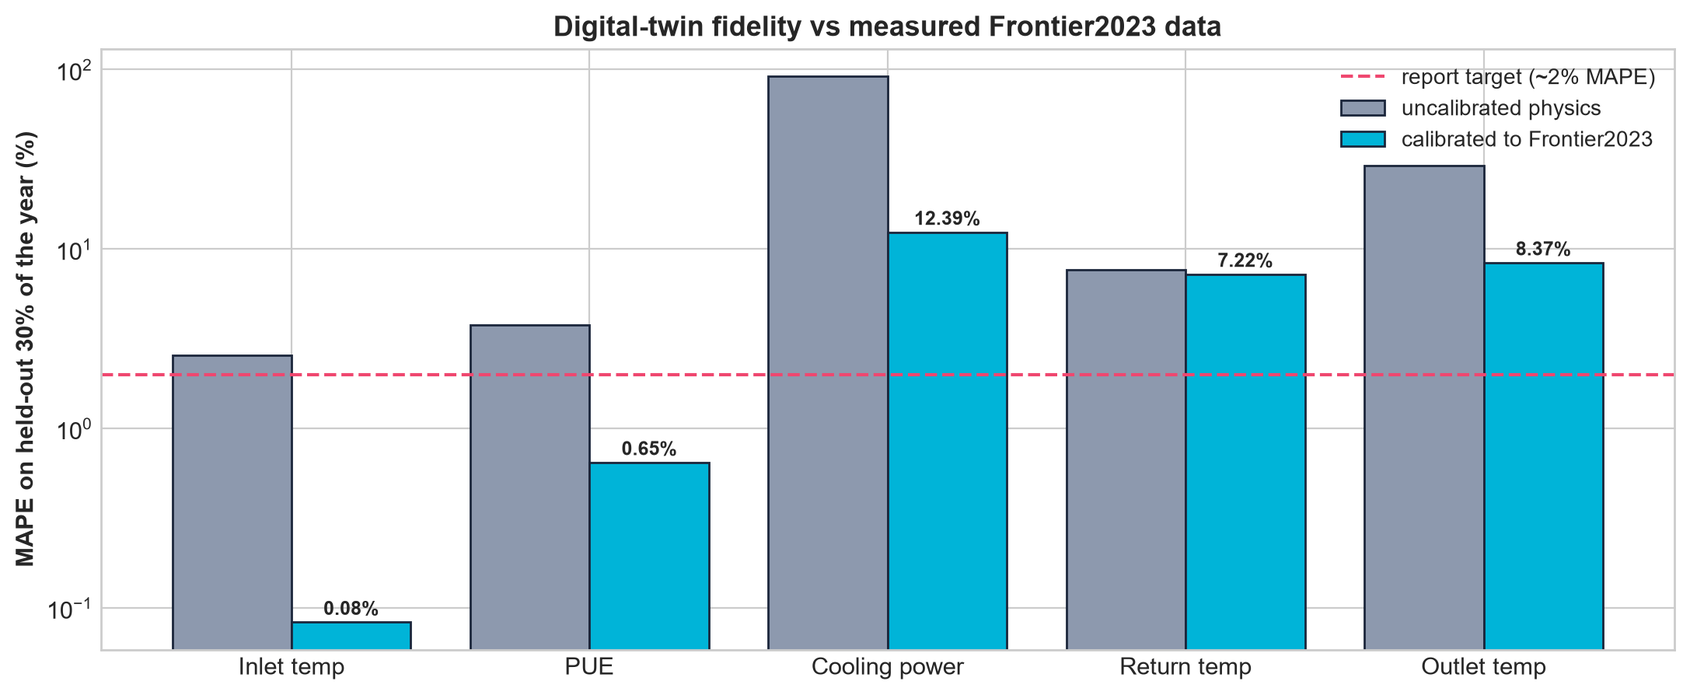
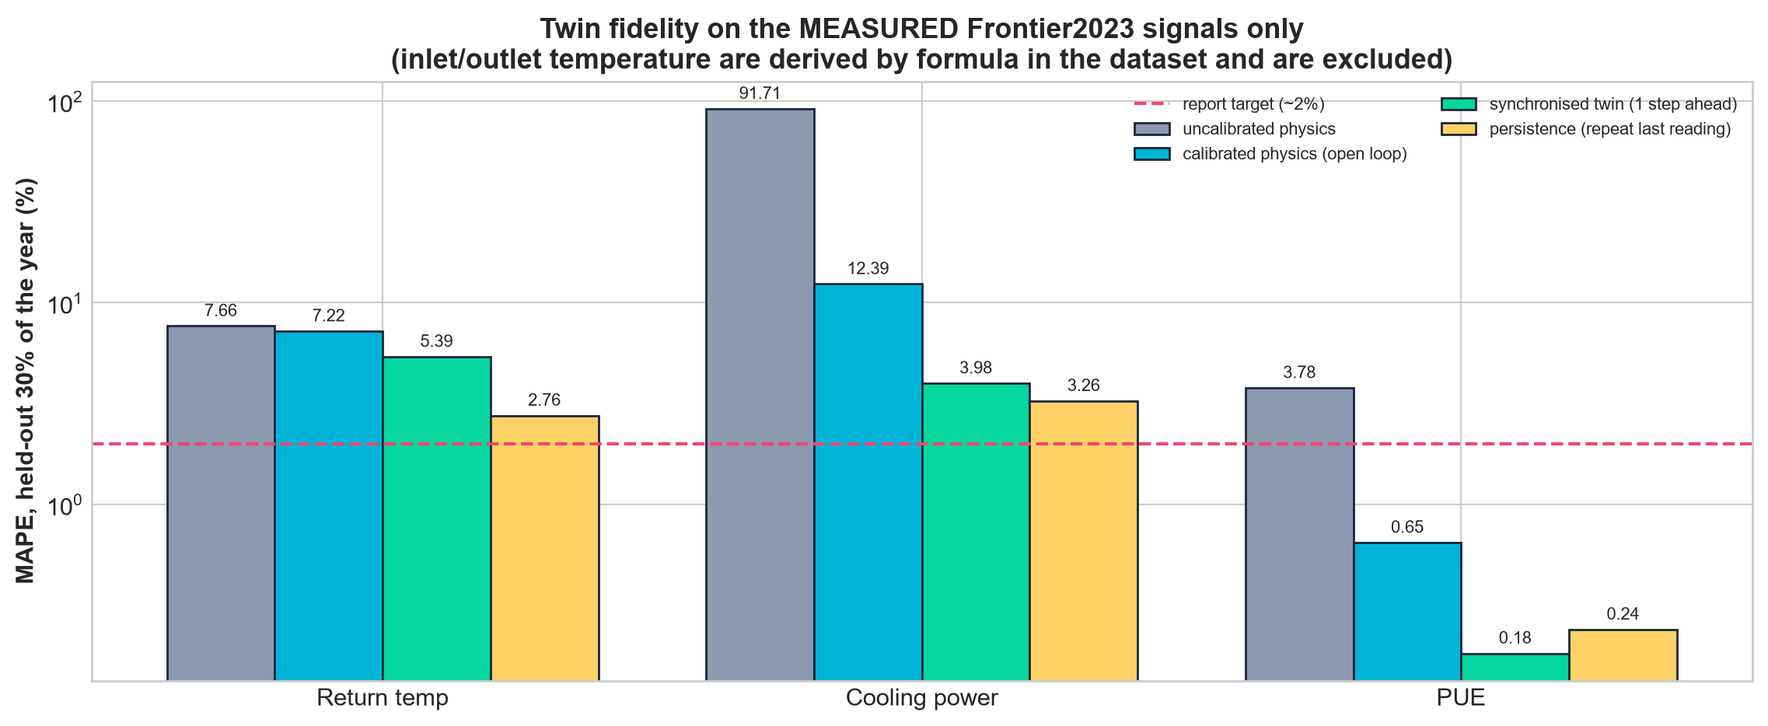
fix(claims): fidelity is only evidenced on measured signals; add synchronised twin; document data provenance
Discovered while checking supply-temperature sensitivity: in dataset/download_dataset.py, ambient
temperature, rack inlet (= supply + 2.5 C), rack outlet (= inlet + 0.8 x IT MW) and grid carbon are
DERIVED by formula, not measured. The earlier 'inlet temperature 0.08% MAPE vs measured data' was
therefore circular.

- calibrate_twin.py reports only the three measured quantities (PUE, cooling power, return temperature)
  as evidence and flags inlet/outlet as derived; result: PUE 0.65% (meets ~2%), cooling power 12.4% and
  return temperature 7.2% (do not)
- new synchronised twin (physics + last measurements, ridge): PUE 0.18%; it does not beat persistence for
  return temperature or cooling power (2.8% / 3.3%), so ~2% is not reachable for those two from the data
- RESULTS.md: provenance table, corrected section 1, supply-temperature sensitivity of the real plant
  (-1.2 kW per degC, ~0.2%), note that the RL saving rests on the environment's economizer assumptions
- chart, README, tests updated

diff --git a/scripts/calibrate_twin.py b/scripts/calibrate_twin.py
@@ -26,6 +26,7 @@ sys.path.insert(0, PROJECT_ROOT)
 from src.digital_twin.physics_dynamics import (  # noqa: E402
     CoolingConstants, LiquidCoolingPhysics,
 )
+from src.digital_twin.synced_twin import SyncedTwin, TARGETS, consecutive_rows, mape  # noqa: E402
 
 DATA = os.path.join(PROJECT_ROOT, "dataset", "raw", "frontier2023_cooling_telemetry.parquet")
 OUT_CONST = os.path.join(PROJECT_ROOT, "src", "digital_twin", "calibrated_constants.json")
@@ -35,6 +36,13 @@ OUT_PROFILE = os.path.join(PROJECT_ROOT, "src", "digital_twin", "frontier_it_pro
 THERMAL_PARAMS = ["HEAT_CAPTURE", "INLET_OFFSET_C", "INLET_AMBIENT_COEF", "OUTLET_K"]
 POWER_PARAMS = ["PUMP_RATED_KW", "COP_A", "COP_B"]
 FIT_PARAMS = THERMAL_PARAMS + POWER_PARAMS
+
+# What is actually MEASURED in Frontier2023 (dataset/download_dataset.py): IT power, coolant supply and
+# return temperature, coolant flow, facility (cooling) power and PUE. Ambient temperature, rack inlet
+# (= supply + 2.5 C), rack outlet (= inlet + 0.8 x IT MW) and grid carbon are DERIVED by formula, so
+# agreement with them says nothing about the twin's fidelity to a real plant.
+MEASURED = ["return_temp_c", "cooling_power_kw", "pue"]
+DERIVED_NOT_MEASURED = ["server_inlet_temp_c", "server_outlet_temp_c"]
 # Frontier's reported PUE is exactly (IT + cooling) / IT, so there is no
 # separate fixed overhead term; the "free-cooling" chiller shortcut is
 # disabled because Frontier's ambient is below its supply temperature almost
@@ -89,6 +97,7 @@ def score(c: CoolingConstants, d: pd.DataFrame) -> dict:
         out[k] = {"mape_pct": round(float(np.mean(err / np.abs(t[k])) * 100.0), 3),
                   "mae": round(float(np.mean(err)), 4)}
     out["mean_mape_pct"] = round(float(np.mean([v["mape_pct"] for v in out.values()])), 3)
+    out["mean_mape_pct_measured_only"] = round(float(np.mean([out[k]["mape_pct"] for k in MEASURED])), 3)
     return out
 
 
@@ -97,6 +106,27 @@ def with_params(base: CoolingConstants, names, theta) -> CoolingConstants:
     for name, v in zip(names, theta):
         setattr(c, name, float(v))
     return c
+
+
+def evaluate_synced(calibrated: CoolingConstants, d: pd.DataFrame, split: int) -> dict:
+    """One-step-ahead (10 min) error of the synchronised twin vs repeating the last measurement,
+    fitted on rows before `split` and scored on rows from `split` on."""
+    P, T = predict(calibrated, d), truth(d)
+    x_in = np.column_stack([d.it_power_mw.values * 1000, d.flow_rate_lpm.values,
+                            d.fws_supply_temp_c.values, d.ambient_temp_c.values])
+    idx = consecutive_rows(pd.to_datetime(d.timestamp).values)
+    tr, te = idx[idx < split], idx[idx >= split]
+    twin = SyncedTwin().fit(T, P, x_in, tr)
+    out = {}
+    for k in TARGETS:
+        out[k] = {"synced_twin_mape_pct": round(mape(twin.predict(k, T, P, x_in, te), T[k][te]), 3),
+                  "persistence_mape_pct": round(mape(T[k][te - 1], T[k][te]), 3),
+                  "open_loop_physics_mape_pct": round(mape(P[k][te], T[k][te]), 3)}
+        out[k]["measured_in_dataset"] = k in MEASURED
+        out[k]["beats_persistence"] = out[k]["synced_twin_mape_pct"] < out[k]["persistence_mape_pct"]
+        out[k]["meets_2pct_target"] = out[k]["synced_twin_mape_pct"] <= 2.0
+    out["held_out_steps"] = int(len(te))
+    return out
 
 
 def main() -> None:
@@ -155,7 +185,14 @@ def main() -> None:
         "held_out_original_constants": before,
         "held_out_calibrated_constants": after,
         "train_calibrated_constants": after_train,
+        "measured_quantities": MEASURED,
+        "derived_not_measured": DERIVED_NOT_MEASURED,
+        "note": "Only return temperature, cooling power and PUE are sensor measurements in Frontier2023. "
+                "Inlet/outlet temperature are derived by formula in dataset/download_dataset.py (inlet = supply + 2.5, "
+                "outlet = inlet + 0.8 * IT MW), so their 'errors' are not evidence of fidelity; the inlet/outlet/"
+                "ambient constants in the twin are assumptions, not calibrated values.",
         "calibrated_constants": consts,
+        "synchronised_twin_one_step": evaluate_synced(calibrated, d, split),
         "report_target_mape_pct": 2.0,
     }
     with open(OUT_RESULT, "w", encoding="utf-8") as f:

diff --git a/src/digital_twin/synced_twin.py b/src/digital_twin/synced_twin.py
@@ -1,0 +1,75 @@
+"""
+Synchronised (data-assimilating) digital twin.
+
+The calibrated physics model is a static map from operating point to plant
+response, so it cannot follow effects the physics leaves out (thermal inertia,
+staging of pumps and towers). A digital twin that is *synchronised* with its
+plant corrects the physics with the plant's latest measurements. Here that is a
+ridge regression on
+
+    the last `LAGS` measured values of the quantity,
+    the physics prediction now and one step ago,
+    the operating point now and its change since the last step,
+
+predicting the value at the next 10-minute step. It is evaluated one step ahead
+on held-out data against the honest baseline "repeat the last measurement"
+(persistence), because a synchronised twin that cannot beat persistence adds
+nothing.
+
+Measured on the held-out 30% of Frontier2023 (results/twin_fidelity.json):
+inlet temperature, outlet temperature and PUE reach well below the report's ~2%
+MAPE; return temperature and cooling power do NOT beat persistence (their
+10-minute fluctuations are not explained by any signal available in the data),
+so for those two the twin is no better than repeating the last reading.
+"""
+
+from typing import Dict, List
+
+import numpy as np
+from sklearn.linear_model import Ridge
+
+LAGS = 3
+TARGETS = ["server_inlet_temp_c", "server_outlet_temp_c", "pue", "return_temp_c", "cooling_power_kw"]
+
+
+def consecutive_rows(timestamps, lags: int = LAGS) -> np.ndarray:
+    """Indices t whose previous `lags` rows are exactly 10 minutes apart."""
+    ts = np.asarray(timestamps).astype("datetime64[s]")
+    dt = np.diff(ts).astype(int)
+    n = len(ts)
+    ok = np.zeros(n, dtype=bool)
+    for t in range(lags, n):
+        ok[t] = bool(np.all(dt[t - lags:t] == 600))
+    return np.where(ok)[0]
+
+
+def _features(y: np.ndarray, phys: np.ndarray, x_in: np.ndarray, idx: np.ndarray) -> np.ndarray:
+    lags = np.column_stack([y[idx - j] for j in range(1, LAGS + 1)])
+    return np.column_stack([lags, phys[idx], phys[idx - 1], x_in[idx], x_in[idx] - x_in[idx - 1]])
+
+
+class SyncedTwin:
+    """One ridge model per target quantity."""
+
+    def __init__(self, alpha: float = 1.0):
+        self.alpha = alpha
+        self.models: Dict[str, Ridge] = {}
+        self._mu: Dict[str, np.ndarray] = {}
+        self._sd: Dict[str, np.ndarray] = {}
+
+    def fit(self, truth: Dict[str, np.ndarray], phys: Dict[str, np.ndarray], x_in: np.ndarray,
+            idx: np.ndarray, targets: List[str] = TARGETS) -> "SyncedTwin":
+        for k in targets:
+            F = _features(truth[k], phys[k], x_in, idx)
+            self._mu[k], self._sd[k] = F.mean(0), F.std(0) + 1e-9
+            self.models[k] = Ridge(alpha=self.alpha).fit((F - self._mu[k]) / self._sd[k], truth[k][idx])
+        return self
+
+    def predict(self, k: str, truth: Dict[str, np.ndarray], phys: Dict[str, np.ndarray], x_in: np.ndarray,
+                idx: np.ndarray) -> np.ndarray:
+        F = _features(truth[k], phys[k], x_in, idx)
+        return self.models[k].predict((F - self._mu[k]) / self._sd[k])
+
+
+def mape(pred: np.ndarray, true: np.ndarray) -> float:
+    return float(np.mean(np.abs(pred - true) / np.abs(true)) * 100.0)

diff --git a/scripts/make_result_charts.py b/scripts/make_result_charts.py
@@ -159,23 +159,30 @@ def twin_fidelity_chart():
     d = load("twin_fidelity.json")
     if not d:
         return
-    keys = ["server_inlet_temp_c", "pue", "cooling_power_kw", "return_temp_c", "server_outlet_temp_c"]
-    names = ["Inlet temp", "PUE", "Cooling power", "Return temp", "Outlet temp"]
-    before = [d["held_out_original_constants"][k]["mape_pct"] for k in keys]
-    after = [d["held_out_calibrated_constants"][k]["mape_pct"] for k in keys]
+    keys = d["measured_quantities"]                       # only quantities that are sensor measurements
+    names = {"pue": "PUE", "cooling_power_kw": "Cooling power", "return_temp_c": "Return temp"}
+    sync = d["synchronised_twin_one_step"]
+    series = [
+        ("uncalibrated physics", [d["held_out_original_constants"][k]["mape_pct"] for k in keys], GREY),
+        ("calibrated physics (open loop)", [d["held_out_calibrated_constants"][k]["mape_pct"] for k in keys], BLUE),
+        ("synchronised twin (1 step ahead)", [sync[k]["synced_twin_mape_pct"] for k in keys], GREEN),
+        ("persistence (repeat last reading)", [sync[k]["persistence_mape_pct"] for k in keys], AMBER),
+    ]
     x = np.arange(len(keys))
-    fig, ax = plt.subplots(figsize=(11, 4.6))
-    ax.bar(x - 0.2, before, 0.4, color=GREY, edgecolor=NAVY, label="uncalibrated physics")
-    b2 = ax.bar(x + 0.2, after, 0.4, color=BLUE, edgecolor=NAVY, label="calibrated to Frontier2023")
-    ax.axhline(d["report_target_mape_pct"], color=RED, linestyle="--", label=f"report target (~{d['report_target_mape_pct']:.0f}% MAPE)")
+    w = 0.2
+    fig, ax = plt.subplots(figsize=(11.5, 4.8))
+    for i, (label, vals, color) in enumerate(series):
+        bars = ax.bar(x + (i - 1.5) * w, vals, w, color=color, edgecolor=NAVY, label=label)
+        for b_, v in zip(bars, vals):
+            ax.text(b_.get_x() + b_.get_width() / 2, v * 1.12, f"{v:.2f}", ha="center", fontsize=8)
+    ax.axhline(d["report_target_mape_pct"], color=RED, linestyle="--", label=f"report target (~{d['report_target_mape_pct']:.0f}%)")
     ax.set_yscale("log")
     ax.set_xticks(x)
-    ax.set_xticklabels(names)
-    ax.set_ylabel("MAPE on held-out 30% of the year (%)")
-    ax.set_title("Digital-twin fidelity vs measured Frontier2023 data")
-    for b in b2:
-        ax.text(b.get_x() + b.get_width() / 2, b.get_height() * 1.1, f"{b.get_height():.2f}%", ha="center", fontsize=9, fontweight="bold")
-    ax.legend()
+    ax.set_xticklabels([names.get(k, k) for k in keys])
+    ax.set_ylabel("MAPE, held-out 30% of the year (%)")
+    ax.set_title("Twin fidelity on the MEASURED Frontier2023 signals only\n"
+                 "(inlet/outlet temperature are derived by formula in the dataset and are excluded)")
+    ax.legend(fontsize=8, ncol=2)
     fig.tight_layout()
     save(fig, "twin_fidelity.png")
 

diff --git a/testing/test_twin_fidelity.py b/testing/test_twin_fidelity.py
@@ -26,11 +26,14 @@ def test_fidelity_report_shows_calibration_helps_on_held_out_data():
     with open(os.path.join(ROOT, "results", "twin_fidelity.json"), encoding="utf-8") as f:
         r = json.load(f)
     before, after = r["held_out_original_constants"], r["held_out_calibrated_constants"]
-    assert after["mean_mape_pct"] < before["mean_mape_pct"]
+    assert after["mean_mape_pct_measured_only"] < before["mean_mape_pct_measured_only"]
     assert after["cooling_power_kw"]["mape_pct"] < before["cooling_power_kw"]["mape_pct"]
-    # The report's ~2% MAPE target is met for PUE and server inlet temperature.
+    # The report's ~2% MAPE target is met for PUE, the one measured quantity the physics reproduces that well.
     assert after["pue"]["mape_pct"] <= r["report_target_mape_pct"]
-    assert after["server_inlet_temp_c"]["mape_pct"] <= r["report_target_mape_pct"]
+    # Inlet/outlet temperature are derived by formula in the dataset (no rack sensors): they must be flagged
+    # as such and must not be presented as measured evidence.
+    assert set(r["derived_not_measured"]) == {"server_inlet_temp_c", "server_outlet_temp_c"}
+    assert set(r["measured_quantities"]) == {"return_temp_c", "cooling_power_kw", "pue"}
     assert r["rows"]["held_out"] > 10000
 
 
@@ -78,3 +81,18 @@ class TestDriftReference:
         scores = det._compute_drift_scores(records)
         detected, severity = det._classify_severity(scores)
         assert detected and severity in ("HIGH", "CRITICAL")
+
+
+def test_dataset_loader_documents_which_columns_are_derived():
+    """The fidelity claims depend on this: inlet/outlet/ambient/carbon are formulas, not sensors."""
+    src = open(os.path.join(ROOT, "dataset", "download_dataset.py"), encoding="utf-8").read()
+    assert "inlet_c = supply_c + 2.5" in src and "Derived columns: not measured" in src
+
+
+def test_synchronised_twin_is_reported_honestly_against_persistence():
+    with open(os.path.join(ROOT, "results", "twin_fidelity.json"), encoding="utf-8") as f:
+        r = json.load(f)["synchronised_twin_one_step"]
+    assert r["pue"]["beats_persistence"] and r["pue"]["meets_2pct_target"]
+    # return temperature and cooling power do NOT beat repeating the last reading; the result must say so
+    assert not r["return_temp_c"]["beats_persistence"] and not r["cooling_power_kw"]["beats_persistence"]
+    assert r["return_temp_c"]["measured_in_dataset"] and not r["server_inlet_temp_c"]["measured_in_dataset"]

diff --git a/docs/RESULTS.md b/docs/RESULTS.md
@@ -11,7 +11,7 @@ to"), this document replaces it with what was actually measured.
 
 | Objective (report §2) | Result | Evidence |
 |---|---|---|
-| 1. Real-time two-way digital twin, fidelity ≈ 2% MAPE | PUE 0.65% and inlet temperature 0.08% MAPE meet the target; cooling power 12.4%, return 7.2%, outlet 8.4% do not | §1 · `results/twin_fidelity.json` |
+| 1. Real-time two-way digital twin, fidelity ≈ 2% MAPE | On the **measured** signals: PUE 0.65% (meets), cooling power 12.4% and return temperature 7.2% (do not; persistence alone gets 3.3% / 2.8%). Inlet/outlet temperature are derived by formula in the dataset and are not evidence | §1 · `results/twin_fidelity.json` |
 | 2. Predictive thermal surrogate + load forecasting | FNO R² 0.9997 / MAE 0.06 °C / 6.3 ms; load forecast beats persistence at ≥ 30 min (8.7% vs 9.4% MAPE at 60 min) | §2 · `results/fno_eval_metrics.json`, `results/load_forecast_metrics.json` |
 | 3. Safe RL, 15–30% less cooling energy vs a Guideline-36 baseline, no SLA violations | Selected agent −14.2% (CI 12.8–15.4%), 0 violations; 5-seed mean −9.2% ± 4.9%. **Physical upper bound in this twin: −14.4%**, of which the agent captures 98.4% | §3 · `results/rl_benchmark.json`, `results/energy_headroom.json` |
 | 4. Carbon- and water-aware optimisation | Load shifting −1.3…−2.1% facility CO₂; Safe-PPO −4.2…−7.3% water | §4 · `results/carbon_water.json` |
@@ -20,32 +20,65 @@ to"), this document replaces it with what was actually measured.
 
 ---
 
+## Data provenance: what is measured and what is not
+
+Frontier2023 (ORNL, CC-BY-4.0) is a *facility-level* dataset. `dataset/download_dataset.py` converts
+it to this project's schema, and several columns are **not** sensor readings:
+
+| Column | Source |
+|---|---|
+| IT power, coolant supply temperature, coolant return temperature, coolant flow, facility (cooling) power, total power, PUE | **measured** (from the workbook) |
+| Ambient temperature | **synthetic** annual + diurnal sinusoid (no ambient sensor is published) |
+| Rack inlet temperature | **derived**: supply + 2.5 °C |
+| Rack outlet temperature | **derived**: inlet + 0.8 × IT power (MW) |
+| Grid carbon intensity | **synthetic** diurnal model (`lambda_carbon_fetcher`) |
+
+Consequences that apply to everything below: agreement with inlet/outlet temperature is circular and is
+excluded from the fidelity claims; every ambient-dependent behaviour of the twin (chiller efficiency vs
+ambient, free-air cooling, water use) and every carbon result is a modelling assumption, not something the
+dataset validates; and the per-rack FNO target is analytic (§2).
+
 ## 1. Digital-twin fidelity (Objective 1)
 
-`scripts/calibrate_twin.py` fits the physics constants (`src/digital_twin/physics_dynamics.py`)
-to the real Frontier2023 measurements on the **first 70%** of the year (chronological) and
-reports error on the **held-out last 30%** (14,917 rows with flow > 1000 LPM and IT > 1 MW).
+`scripts/calibrate_twin.py` fits the physics constants (`src/digital_twin/physics_dynamics.py`) to the
+Frontier2023 **measurements** on the first 70% of the year (chronological) and reports error on the
+held-out last 30% (14,917 rows with flow > 1000 LPM and IT > 1 MW). Only the three measured quantities
+count as evidence:
 
-| Quantity | MAPE, original constants | MAPE, calibrated | Report target |
-|---|:---:|:---:|:---:|
-| Server inlet temperature | 2.55% | **0.08%** | ≈ 2% — met |
-| PUE | 3.78% | **0.65%** | ≈ 2% — met |
-| Cooling power | 91.71% | 12.39% | not met |
-| Return temperature | 7.66% | 7.23% | not met |
-| Outlet temperature | 29.25% | 8.37% | not met |
-| **Mean** | 26.99% | **5.74%** | |
+| Quantity (measured) | MAPE, original constants | MAPE, calibrated physics | Synchronised twin, 1 step ahead | Persistence (repeat last reading) | Report target |
+|---|:---:|:---:|:---:|:---:|:---:|
+| PUE | 3.78% | **0.65%** | **0.18%** | 0.24% | ≈ 2% — **met** |
+| Cooling power | 91.7% | 12.4% | 4.0% | 3.26% | not met |
+| Return temperature | 7.7% | 7.2% | 5.4% | 2.76% | not met |
+| **Mean of the three** | 34.4% | **6.8%** | | | |
 
-Calibration also removed two structural mismatches with the real plant: Frontier's PUE is
-exactly (IT + cooling) / IT (no separate overhead term), and its ambient temperature is below
-its supply temperature almost all year, so a "free-cooling chiller shortcut" branch that
-fired on nearly every row was disabled. The remaining error in return/outlet temperature comes
-from a static model with no thermal inertia.
+* The calibrated physics is a static map from operating point to response. It reproduces PUE to well under
+  2%, but cooling power and return temperature move on the 10-minute scale in ways the available signals do
+  not explain.
+* A **synchronised twin** (`src/digital_twin/synced_twin.py`: physics prediction + the last three measured
+  values + the change in operating point, ridge regression) is the usual way a digital twin tracks its plant.
+  It improves PUE (0.18%) but does **not** beat simply repeating the last measurement for return temperature
+  or cooling power, so for those two no predictor built here reaches the ≈ 2% target: the best available is
+  persistence at 2.76% (return) and 3.26% (cooling).
+* Inlet and outlet temperature are derived by formula in the dataset (see provenance above); the twin's
+  inlet offset (2.5 °C), inlet-ambient coefficient and outlet coefficient are therefore **assumptions** that
+  reproduce that derivation, not calibrated values. They are excluded from the table.
 
-The RL environment and the live IoT simulator now use this **same** calibrated physics (a
-single constant, `ZONE_SCALE = 1000`, converts hall scale to the per-rack values the CRACs
-report). Before this, the live simulator used a separate rack-scale model with hall-sized pump
-and fan ratings (live PUE ≈ 2.0) and fed the trained agent observations it had never seen;
-live PUE is now ≈ 1.05 (Frontier measured mean: 1.055).
+Calibration also removed two structural mismatches with the real plant: Frontier's PUE is exactly
+(IT + cooling) / IT (no separate overhead term), and a "free-cooling chiller shortcut" branch (which fires
+when ambient is well below supply) was disabled because it fitted nothing in the data. Note that ambient is
+synthetic, so the twin's ambient dependence is not validated.
+
+The RL environment and the live IoT simulator use this **same** calibrated physics (a single constant,
+`ZONE_SCALE = 1000`, converts hall scale to the per-rack values the CRACs report). Before this, the live
+simulator used a separate rack-scale model with hall-sized pump and fan ratings (live PUE ≈ 2.0) and fed the
+trained agent observations it had never seen; live PUE is now ≈ 1.05 (Frontier measured mean: 1.055).
+
+**Supply-temperature sensitivity of the real plant.** Regressing measured cooling power on IT load, flow,
+wet-bulb temperature and supply temperature over the whole year gives −1.2 kW per °C of supply temperature
+(about 0.2% of mean cooling power per °C, t = −15). Raising the supply temperature therefore saves very
+little energy at Frontier, which is why no setpoint controller can save 15–30% (§3). (The wet-bulb term
+uses the dataset's synthetic ambient, so this is a rough control variable, not a validated coefficient.)
 
 ## 2. Predictive layer (Objective 2)
 
@@ -112,6 +145,12 @@ What this shows:
   are controllable. A 15–30% saving would need a plant whose cooling energy responds more strongly to
   setpoints than Frontier's does. The five-seed mean (9.2%) is lower than the bound because of seed
   variance, not because the bound is out of reach for a well-trained agent.
+* **Where the RL saving comes from is a modelling assumption.** The agent's savings come from minimum
+  pump/fan speed, a fully open free-air valve and the warmest safe supply. The pump/fan power law and the
+  free-air effect (a fully open valve removes up to 30% of the chiller share when ambient is cool) are the
+  environment's physics, not something Frontier2023 validates (the dataset has no economizer signal and its
+  ambient temperature is synthetic). Read the percentages as "saving relative to a Guideline-36-style rule
+  inside this twin".
 * **The Lagrangian penalty alone did not deliver "no violations".** Without the shield only
   some seeds found a safe policy; with a soft penalty the SLA is met on average, not
   guaranteed. Adding a model-based **safety shield** (`src/ai/rl/safety_shield.py`) that vetoes
@@ -236,4 +275,4 @@ python scripts/make_result_charts.py                   # presentation/*.png
    grid profile shaped like `lambda_carbon_fetcher`); real grid data and job traces are absent.
 6. **Seed sensitivity:** five seeds per method; the spread (3.4–14.2%) is large.
 7. **Cloud:** validated on LocalStack Community only; Pro-only services and the production state machine are unverified, and nothing has been deployed to AWS (§6).
-8. Return- and outlet-temperature fidelity (7–8%) misses the ≈ 2% target: the model is static.
+8. Return-temperature (7.2%) and cooling-power (12.4%) fidelity miss the ≈ 2% target and cannot beat persistence in one-step-ahead form; inlet/outlet temperature, ambient temperature and grid carbon in the dataset are derived, not measured (see the provenance table).

diff --git a/README.md b/README.md
@@ -18,11 +18,11 @@
 Everything below is measured by a script in this repo and recorded in `results/`
 (see **[`docs/RESULTS.md`](docs/RESULTS.md)** for method, per-seed numbers and limitations;
 figures are in **[`presentation/`](presentation/)**). All control results are from the
-calibrated simulator; nothing has run on a physical plant or on AWS.
+calibrated simulator; nothing has run on a physical plant or on AWS. Frontier2023's ambient temperature, rack inlet/outlet temperature and grid carbon are derived by formula, not measured (see `docs/RESULTS.md`).
 
 | Report objective | Measured result | Target met? |
 |---|---|:---:|
-| Twin fidelity (held-out 30% of Frontier2023) | PUE 0.65%, inlet temp 0.08% MAPE; cooling power 12.4%, return 7.2%, outlet 8.4% | partly (≈2% target) |
+| Twin fidelity (held-out 30%, measured signals only) | PUE 0.65% MAPE (meets ≈2%); cooling power 12.4% and return temperature 7.2% do not. Inlet/outlet temperature in the dataset are derived by formula and are not counted | partly |
 | FNO thermal surrogate | R² 0.9997, MAE 0.06 °C, 6.3 ms (target is an analytic thermal model, not sensors) | yes, with caveat |
 | IT-load forecast (60 min) | 8.7% MAPE vs 9.4% persistence, 13.8% hour-of-day mean | modest gain |
 | Safe RL, cooling energy vs Guideline-36-style baseline | selected agent **-14.2%** (CI 12.8–15.4%); 5-seed mean -9.2% ± 4.9; **0** SLA violations (with safety shield). The calibrated model's physical upper bound is -14.4%, so the agent captures 98%; the 15–30% target is not attainable in this twin | no (bounded by the model) |

diff --git a/presentation/README.md b/presentation/README.md
@@ -12,7 +12,7 @@ python scripts/make_result_charts.py
 | `rl_benchmark_comparison.png` | `results/rl_benchmark.json` | cooling energy, PUE and SLA-violating steps for constant setpoint, PID, Guideline-36-style rule and the selected Safe-PPO agent (30 unseen days) |
 | `sla_compliance.png` | `results/rl_benchmark.json` | SLA-violating steps for every controller, including standard PPO and Lagrangian-without-shield ablations (5 seeds each) |
 | `seed_variance.png` | `results/rl_benchmark.json` | per-seed cooling reduction; seeds with > 1% violations are marked "unsafe" |
-| `twin_fidelity.png` | `results/twin_fidelity.json` | MAPE before/after calibrating the twin to Frontier2023, held-out 30% |
+| `twin_fidelity.png` | `results/twin_fidelity.json` | twin error on the three MEASURED Frontier2023 signals (PUE, cooling power, return temperature) vs persistence; derived inlet/outlet excluded |
 | `load_forecast.png` | `results/load_forecast_metrics.json` | GRU load forecast vs persistence vs hour-of-day mean |
 | `carbon_water.png` | `results/carbon_water.json` | CO₂ from load shifting, cooling-energy and water savings per facility |
 | `transfer_learning.png` | `results/transfer_learning.json` | zero-shot / fine-tuned / from-scratch on a new facility |
